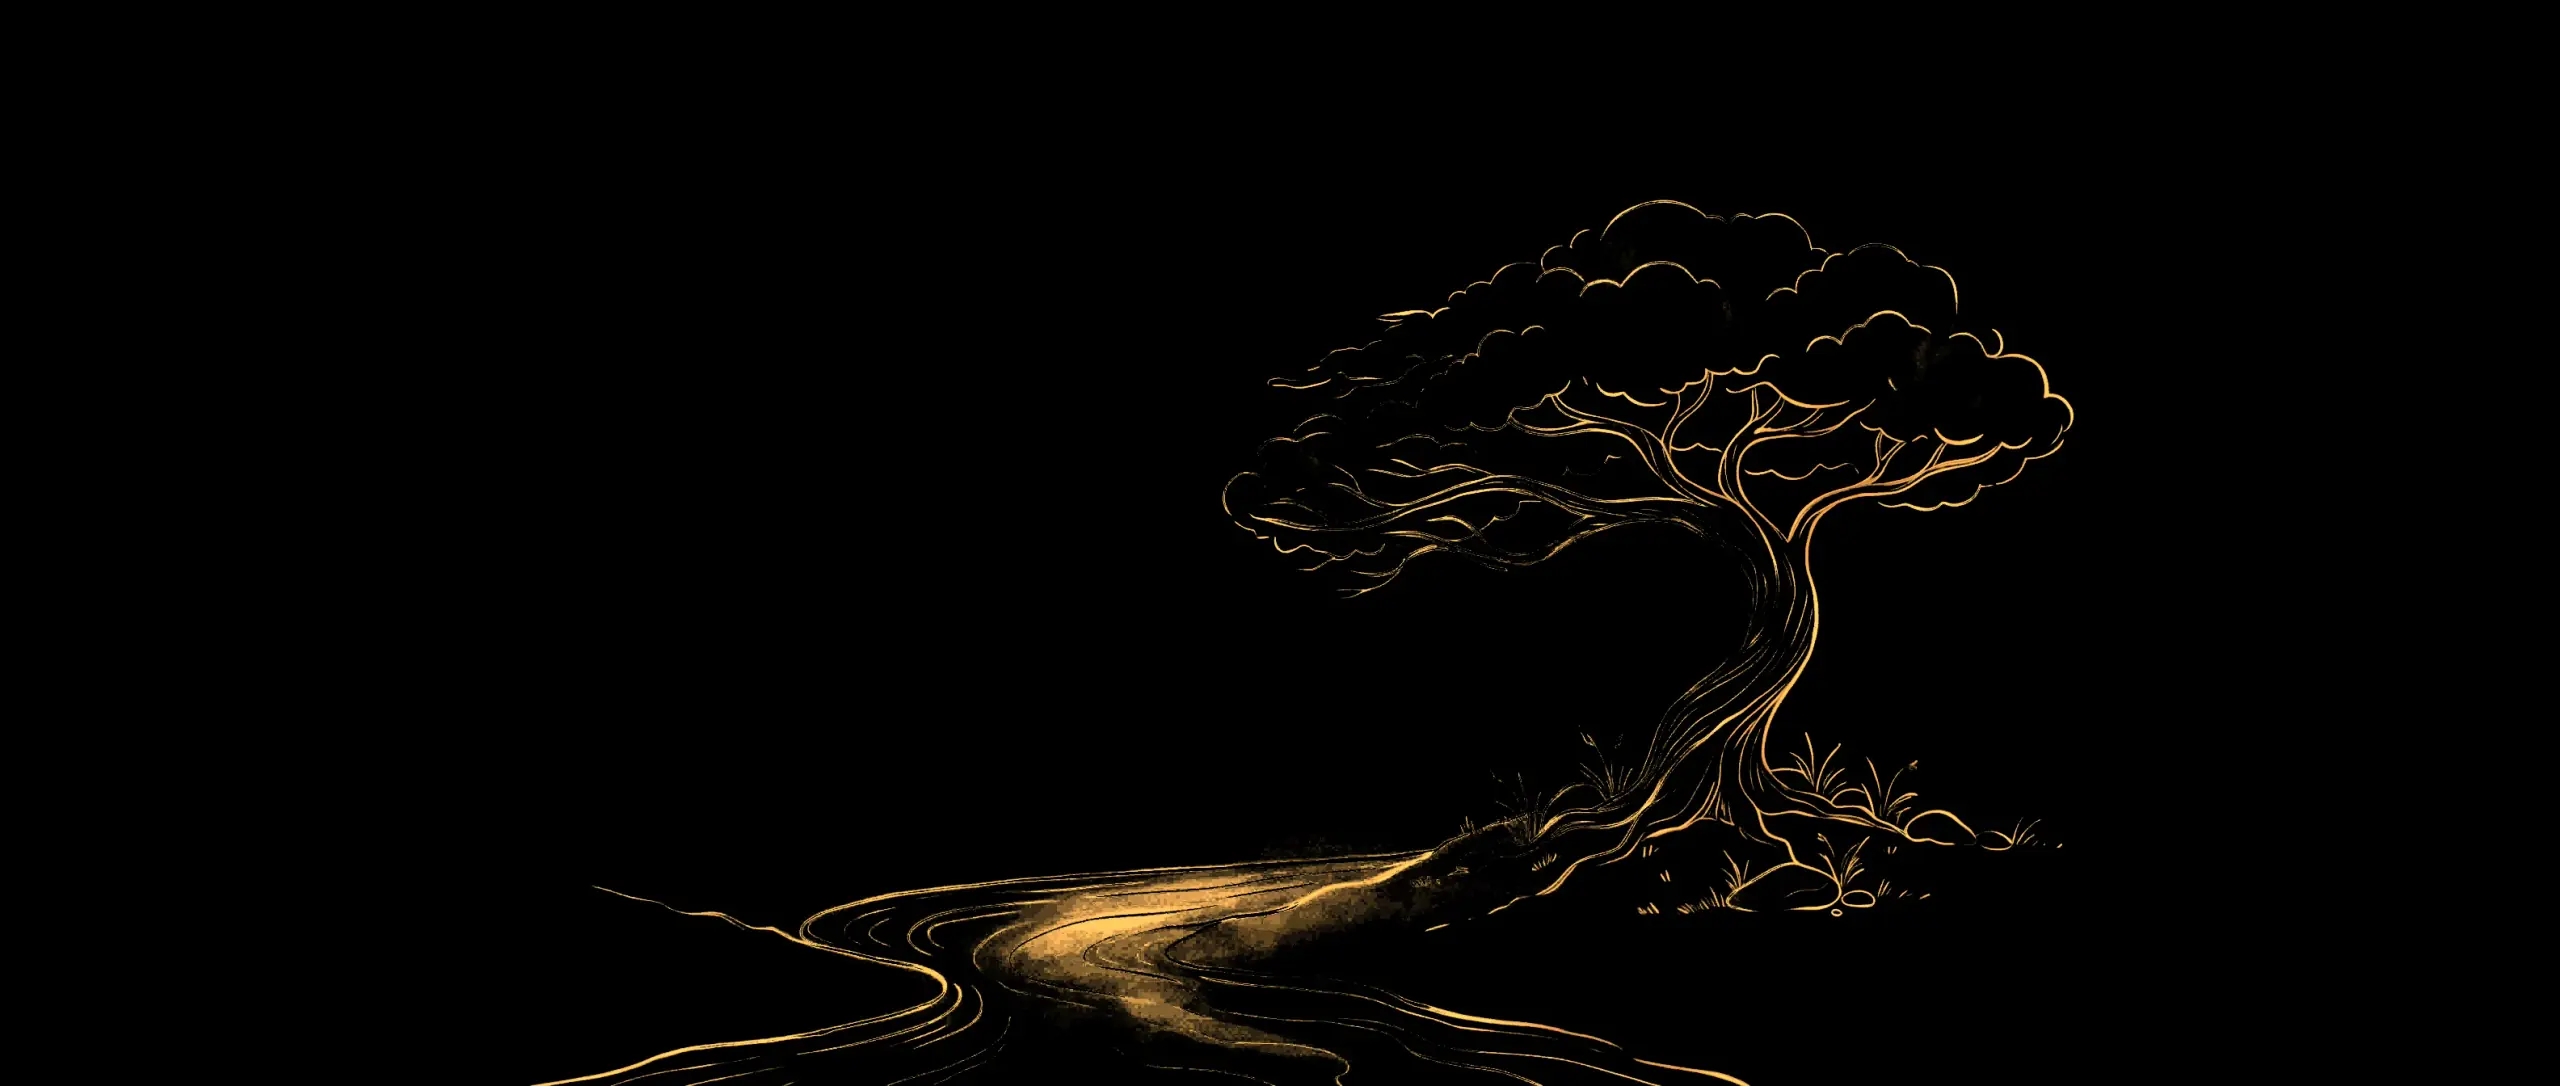
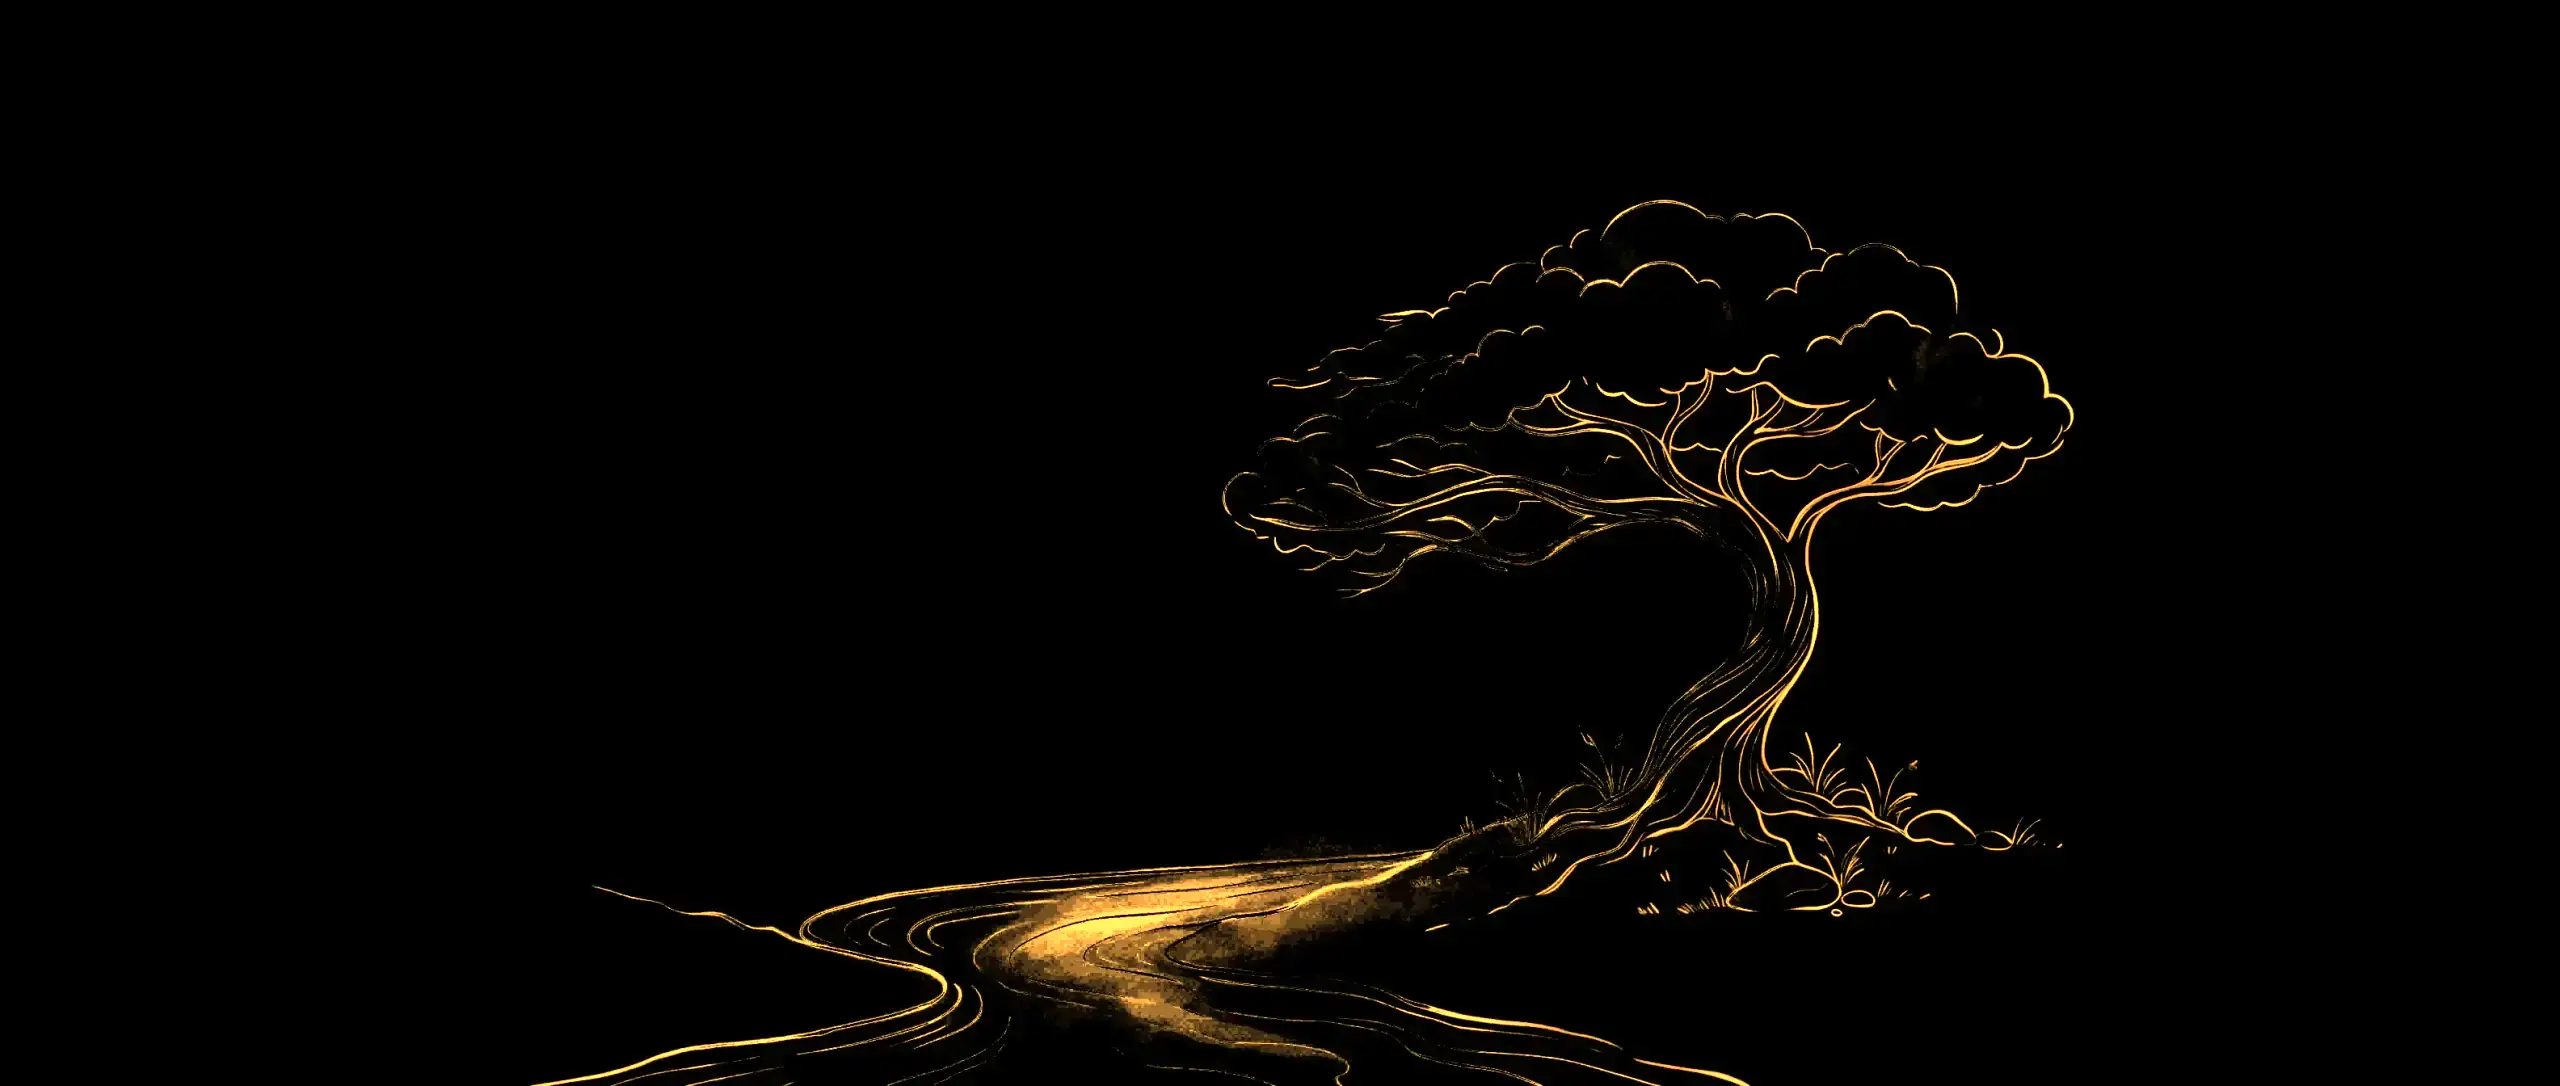
perf(hero): lights cost 82% less to draw, same pixels
The blurred glow layer sat under an opaque copy of the same image and never
showed, but was filtered every frame: removed. The line boost is baked into
the lit images. No getComputedStyle per frame, constants set once, dark
fireflies skipped. 30fps on touch screens, and a fallback that drops the
fireflies and streaks when frames average over 25ms after the intro.

diff --git a/src/lib/components/global/HeroLights.svelte b/src/lib/components/global/HeroLights.svelte
@@ -22,7 +22,7 @@
 		driftspeed: 0.6,
 		treedim: 0.85,
 		reach: 30,
-		strength: 2,
+		// strength 2 (the line boost) is baked into the lit images: intro-prototype/bake-lit.cjs
 		flylight: 1,
 		flyreach: 60,
 		streaklight: 0.6,
@@ -38,6 +38,8 @@
 	};
 	/** When the lights come in, from navigation start (ms): paint wash at 1.82s + 0.2s. */
 	const LIGHTS_AT = 2020;
+	/** Judge the device once the intro is over (text in from 4.1s), not during it. */
+	const PROBE_AT = 5600;
 
 	type Range = [number, number];
 	type Scene = {
@@ -110,7 +112,6 @@
 	/** Share of the streak's length each layer covers, back from the head; base widths. */
 	const SHARE = [0.6, 1, 0.55, 0.18];
 	const BASE_W = [7, 1.2, 2, 2.8];
-	const SLOPES = { boost: [0.9, 0.75, 0.5], glow: [1.3, 1, 0.6] };
 	const TAU = Math.PI * 2;
 	const NS = 'http://www.w3.org/2000/svg';
 
@@ -158,6 +159,7 @@
 			t: number;
 			state: 'off' | 'in' | 'on' | 'out';
 			until: number;
+			dark: boolean;
 			reach: Element;
 			node: Element;
 		};
@@ -166,6 +168,7 @@
 		let flies: Fly[] = [];
 		let streakReach: Element;
 		let live = reduced || performance.now() >= LIGHTS_AT;
+		let lite = false; // see goLite
 
 		function build() {
 			S = SCENES[portraitQuery.matches ? 'portrait' : 'landscape'];
@@ -191,27 +194,41 @@
 				p: [rand(0, TAU), rand(0, TAU), rand(0, TAU), rand(0, TAU)] as Four,
 				t: rand(0, 30),
 				reach: el('circle', { fill: 'url(#hero-falloff)' }, reachLayer),
-				bloom: el('circle', { fill: 'url(#hero-bloom)' }, blooms),
+				bloom: el('circle', { fill: 'url(#hero-bloom)', r: V.size * S.u * 2.2 }, blooms),
 				orb: el('circle', { fill: 'url(#hero-orb)' }, orbs)
 			}));
-			streakReach = el('circle', { fill: 'url(#hero-falloff)', opacity: 0 }, reachLayer);
-			flies = reduced
-				? []
-				: Array.from({ length: V.flies }, (_, i) => {
-						const h = S.homes[i % S.homes.length]!;
-						return {
-							x: rand(...h.x),
-							y: rand(...h.y),
-							a: [rand(10, 25), rand(4, 10), rand(6, 16), rand(3, 8)] as Four,
-							f: [rand(0.03, 0.08), rand(0.11, 0.2), rand(0.04, 0.09), rand(0.13, 0.22)] as Four,
-							p: [rand(0, TAU), rand(0, TAU), rand(0, TAU), rand(0, TAU)] as Four,
-							t: rand(0, 20),
-							state: 'off' as const,
-							until: rand(0, 4),
-							reach: el('circle', { fill: 'url(#hero-falloff)', opacity: 0 }, reachLayer),
-							node: el('circle', { fill: 'url(#hero-fly)', opacity: 0 }, flyLayer)
-						};
-					});
+			streakReach = el(
+				'circle',
+				{ fill: 'url(#hero-falloff)', opacity: 0, r: V.streakreach * S.u },
+				reachLayer
+			);
+			flies =
+				reduced || lite
+					? []
+					: Array.from({ length: V.flies }, (_, i) => {
+							const h = S.homes[i % S.homes.length]!;
+							return {
+								x: rand(...h.x),
+								y: rand(...h.y),
+								a: [rand(10, 25), rand(4, 10), rand(6, 16), rand(3, 8)] as Four,
+								f: [rand(0.03, 0.08), rand(0.11, 0.2), rand(0.04, 0.09), rand(0.13, 0.22)] as Four,
+								p: [rand(0, TAU), rand(0, TAU), rand(0, TAU), rand(0, TAU)] as Four,
+								t: rand(0, 20),
+								state: 'off' as const,
+								until: rand(0, 4),
+								dark: false,
+								reach: el(
+									'circle',
+									{ fill: 'url(#hero-falloff)', opacity: 0, r: V.flyreach * S.u },
+									reachLayer
+								),
+								node: el(
+									'circle',
+									{ fill: 'url(#hero-fly)', opacity: 0, r: V.flysize * S.u },
+									flyLayer
+								)
+							};
+						});
 			parts.forEach((p, i) =>
 				p.setAttribute(
 					'stroke-width',
@@ -247,14 +264,13 @@
 					c.setAttribute('cx', x.toFixed(1));
 					c.setAttribute('cy', y.toFixed(1));
 				}
-				l.orb.setAttribute('r', String(size * (0.85 + 0.2 * k)));
-				l.orb.setAttribute('opacity', String(k));
-				l.bloom.setAttribute('r', String(size * 2.2));
-				l.bloom.setAttribute('opacity', String(k * V.bloom));
+				l.orb.setAttribute('r', (size * (0.85 + 0.2 * k)).toFixed(2));
+				l.orb.setAttribute('opacity', k.toFixed(3));
+				l.bloom.setAttribute('opacity', (k * V.bloom).toFixed(3));
 				// the lines follow the breath more steeply than the light, so the tree visibly dims
 				const lk = reduced ? l.peak : l.peak * (1 - V.treedim * (1 - b));
-				l.reach.setAttribute('r', String(reach * (0.8 + 0.3 * lk)));
-				l.reach.setAttribute('opacity', String(lk));
+				l.reach.setAttribute('r', (reach * (0.8 + 0.3 * lk)).toFixed(2));
+				l.reach.setAttribute('opacity', lk.toFixed(3));
 			}
 		}
 
@@ -283,6 +299,9 @@
 								? 1
 								: 0;
 				const o = live ? fade * fade * (3 - 2 * fade) : 0;
+				// a dark fly has nothing to move: touching it would still repaint the layer
+				if (o === 0 && f.dark) continue;
+				f.dark = o === 0;
 				const x =
 					f.x +
 					u *
@@ -297,9 +316,7 @@
 					c.setAttribute('cx', x.toFixed(1));
 					c.setAttribute('cy', y.toFixed(1));
 				}
-				f.node.setAttribute('r', String(V.flysize * u));
 				f.node.setAttribute('opacity', o.toFixed(3));
-				f.reach.setAttribute('r', String(V.flyreach * u));
 				f.reach.setAttribute('opacity', (o * V.flylight).toFixed(3));
 			}
 		}
@@ -348,18 +365,23 @@
 		function drawStreakLight() {
 			if (!run) return;
 			const p = run.move.effect?.getComputedTiming().progress ?? 1;
+			if (run.move.playState === 'finished') {
+				// finished: dark until the next run
+				streakReach.setAttribute('opacity', '0');
+				run = null;
+				return;
+			}
 			const pt = parts[3]!.getPointAtLength(Math.min(run.L, p * (run.L + run.full)));
 			streakReach.setAttribute('cx', pt.x.toFixed(1));
 			streakReach.setAttribute('cy', pt.y.toFixed(1));
-			streakReach.setAttribute('r', String(V.streakreach * S.u));
-			streakReach.setAttribute(
-				'opacity',
-				(+getComputedStyle(streakGroup).opacity * V.streaklight).toFixed(3)
-			);
+			// the group's fade (in by 12%, out from 80%), read from the same eased progress
+			// instead of getComputedStyle, which would force a style pass every frame
+			const fade = p < 0.12 ? p / 0.12 : p > 0.8 ? (1 - p) / 0.2 : 1;
+			streakReach.setAttribute('opacity', (fade * V.streaklight).toFixed(3));
 		}
 		function schedule(first?: number) {
 			clearTimeout(timer);
-			if (!reduced)
+			if (!reduced && !lite)
 				timer = window.setTimeout(streak, first ?? V.every * 1000 * (0.5 + Math.random()));
 		}
 
@@ -369,24 +391,49 @@
 			drawStreakLight();
 		}
 
-		for (const [id, base] of Object.entries(SLOPES))
-			svg
-				.querySelectorAll(`#hero-line-${id} feComponentTransfer > *`)
-				.forEach((f, i) => f.setAttribute('slope', String((base[i] ?? 1) * V.strength)));
 		build();
+
+		// Low-end devices (measured in Chrome at 6x CPU, 3x DPR, 2026-10-27): every frame
+		// repaints the whole layer, so on touch screens the lights draw at 30fps. The breath
+		// and the drift move a pixel or less a frame, so it looks the same; the streaks are
+		// WAAPI and keep the display's rate. If the device still cannot keep up in its first
+		// two seconds after the intro (frames averaging over 25ms), the fireflies and streaks stop and
+		// the breathing lights stay.
+		const step = matchMedia('(pointer: coarse)').matches ? 1000 / 30 - 4 : 0;
+		let probe = 0,
+			probeSum = 0,
+			prev = 0;
+		function goLite() {
+			lite = true;
+			clearTimeout(timer);
+			anims.forEach((a) => a.cancel());
+			run = null;
+			streakReach.setAttribute('opacity', '0');
+			for (const f of flies) {
+				f.node.setAttribute('opacity', '0');
+				f.reach.setAttribute('opacity', '0');
+			}
+			flies = [];
+		}
 
 		// Run only while the hero is on screen and the tab is visible.
 		let raf = 0,
 			last = 0,
 			onScreen = true;
 		const frame = (now: number) => {
+			raf = requestAnimationFrame(frame);
+			if (now > PROBE_AT && !lite && probe < 120) {
+				if (prev) probeSum += now - prev;
+				if (++probe === 120 && probeSum / 119 > 25) goLite();
+			}
+			prev = now;
+			if (now - last < step) return;
 			draw(Math.min(0.1, (now - last) / 1000));
 			last = now;
-			raf = requestAnimationFrame(frame);
 		};
 		const start = () => {
 			if (raf || reduced || !onScreen || document.hidden) return;
-			last = performance.now();
+			last = prev = performance.now();
 			raf = requestAnimationFrame(frame);
 		};
 		const stop = () => {
@@ -457,21 +504,6 @@
 			<stop offset="0.45" stop-color="#c8ea7a" stop-opacity="0.3" />
 			<stop offset="1" stop-color="#b5dc60" stop-opacity="0" />
 		</radialGradient>
-		<filter id="hero-line-glow" x="-10%" y="-10%" width="120%" height="120%">
-			<feComponentTransfer>
-				<feFuncR type="linear" slope="2.6" />
-				<feFuncG type="linear" slope="2" />
-				<feFuncB type="linear" slope="1.2" />
-			</feComponentTransfer>
-			<feGaussianBlur stdDeviation="4" />
-		</filter>
-		<filter id="hero-line-boost">
-			<feComponentTransfer>
-				<feFuncR type="linear" slope="1.8" />
-				<feFuncG type="linear" slope="1.5" />
-				<feFuncB type="linear" slope="1" />
-			</feComponentTransfer>
-		</filter>
 		<filter id="hero-streak-glow" x="-50%" y="-50%" width="200%" height="200%">
 			<feGaussianBlur bind:this={blur} stdDeviation="2.5" />
 		</filter>
@@ -484,10 +516,10 @@
 			<g bind:this={reachLayer}></g>
 		</mask>
 	</defs>
-	<g mask="url(#hero-light-mask)">
-		<image class="lit" preserveAspectRatio="none" filter="url(#hero-line-glow)" />
-		<image class="lit" preserveAspectRatio="none" filter="url(#hero-line-boost)" />
-	</g>
+	<!-- The lit lines carry their boost baked in (intro-prototype/bake-lit.cjs): a filter here
+	     would run over the whole image on every frame. The prototype's blurred glow layer under
+	     it is gone too: this image is opaque, so the glow never showed (0 pixels differ). -->
+	<image class="lit" preserveAspectRatio="none" mask="url(#hero-light-mask)" />
 	<g bind:this={blooms}></g>
 	<g bind:this={orbs}></g>
 	<g
